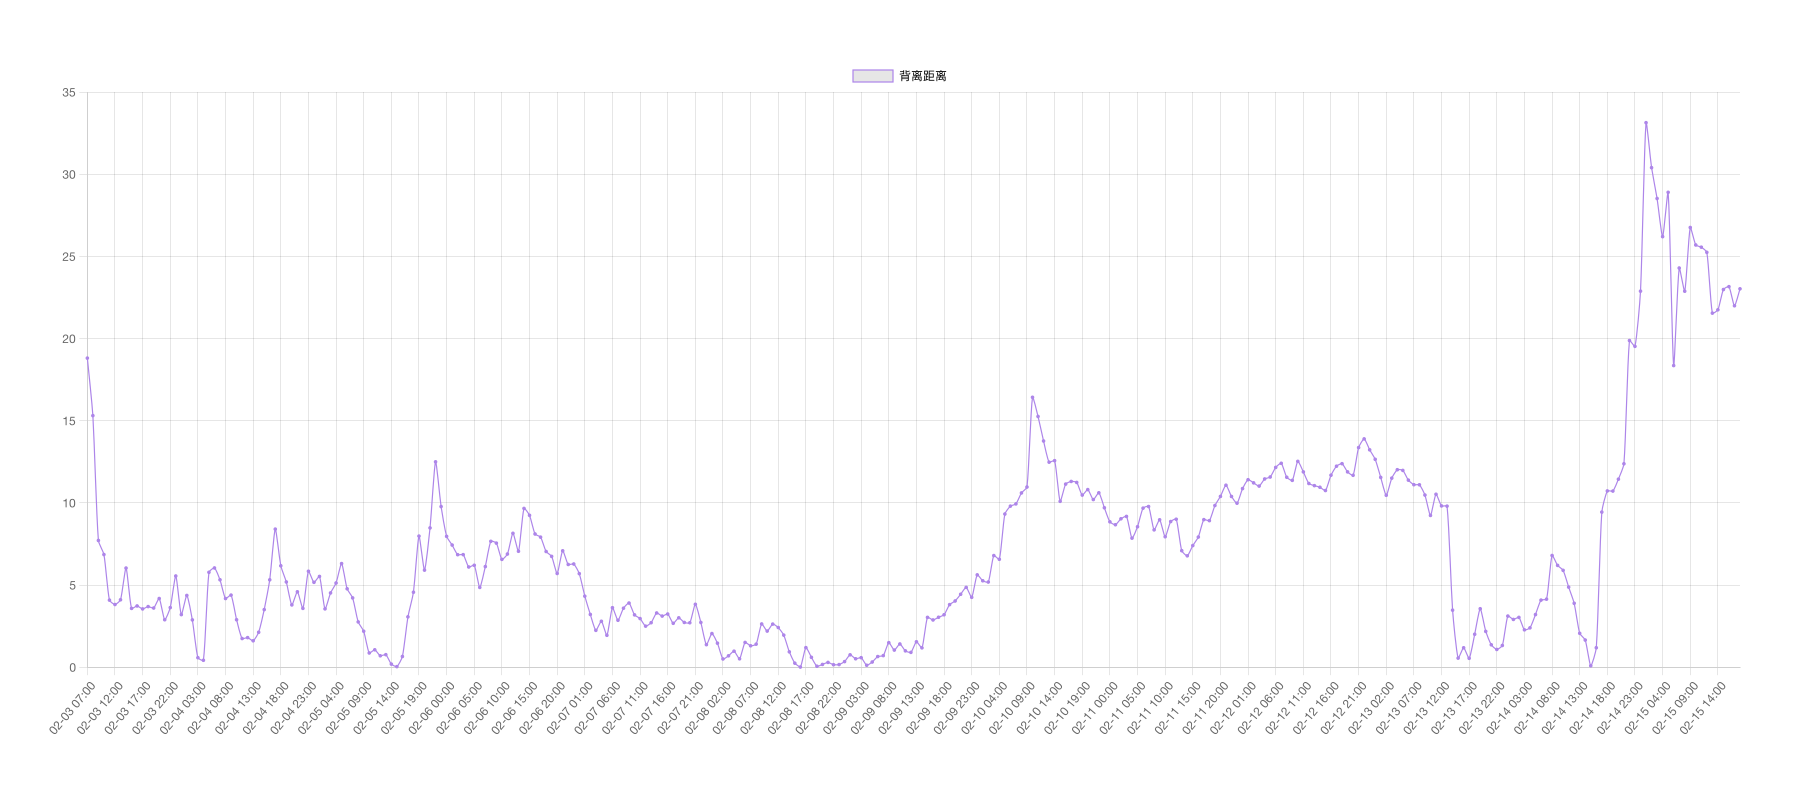
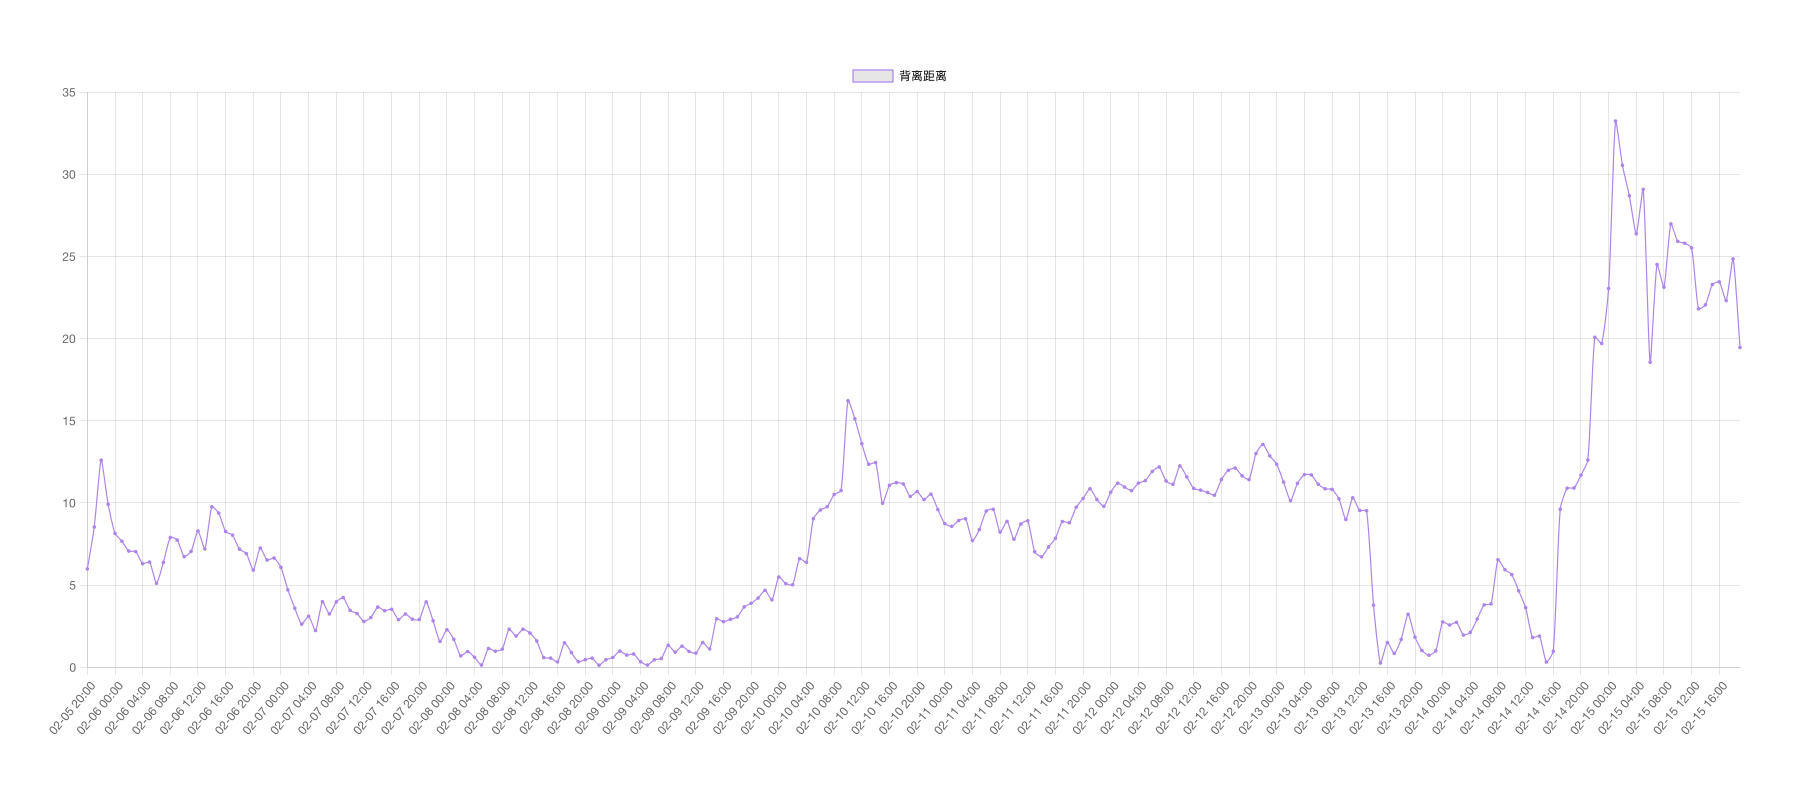
更新绘图方法

diff --git a/src/paint.js b/src/paint.js
@@ -1,5 +1,6 @@
 import { ChartJSNodeCanvas } from 'chartjs-node-canvas'
 import fs from 'fs';
+import { formatTimestamp, getTsOfStartOfToday } from './tools.js';
 
 const width = 1800, height = 800;
 const chartJSNodeCanvas = new ChartJSNodeCanvas({ width, height, backgroundColour:'#fff' });
@@ -49,10 +50,14 @@ export function paint(assetIds, scaled_prices, themes, labels, gate, klines){
         ;((yData1, yData2)=>{
           klines.map((it, id)=>{
             const {prices, ts} = it;
+            const keys = formatTimestamp(getTsOfStartOfToday());
+            const index = labels.indexOf(keys);
+            const start_price = prices[prices.length - index -1] || prices[prices.length - 1];
+            console.log(keys, start_price)
             const price= prices[0],color=themes[id],assetId = assetIds[id];
             ctx.font = '16px Arial';
             ctx.fillStyle = color;
-            ctx.fillText(`[${assetId}]: ${price}`, width*0.8, height*0.2+(id+1)*20);
+            ctx.fillText(`[${assetId}]: ${price}(${(100*(price-start_price)/start_price).toFixed(2)}%)`, width*0.8, height*0.15+(id+1)*20);
           })
 
           const lables = yData2.map((it,id)=>id);
@@ -64,8 +69,8 @@ export function paint(assetIds, scaled_prices, themes, labels, gate, klines){
             const y2 = yScale.getPixelForValue(yData2[i]);
             const diff_rate = Math.abs((yData2[i] - yData1[i])/Math.min(yData2[i],yData1[i]))
             if(i===lables.length-1){
-              ctx.font = '24px Arial';
-              ctx.fillText(`当前: ${(diff_rate*100).toFixed(2)}%`, width*0.8, height*0.2);
+              ctx.font = '22px Arial';
+              ctx.fillText(`最新偏差值: ${(diff_rate*100).toFixed(2)}%`, width*0.8, height*0.15 - 5);
             }
 
             profit.push(diff_rate)

diff --git a/main.js b/main.js
@@ -3,8 +3,7 @@ import {base_url, api_key, api_secret,pass_phrase} from './src/config.security.j
 import express from 'express'
 import { findBestFitLine } from './src/regression.js'
 import { paint } from './src/paint.js'
-import { getPrices, dataset, toTrickTimeMark } from './src/tools.js'
-import { debug } from 'console'
+import { getPrices, dataset, toTrickTimeMark, formatTimestamp, getTsOfStartOfToday } from './src/tools.js'
 // const ws_connection_pool={}
 
 // const ws_private = new WebSocket(base_url+'/ws/v5/private');
@@ -15,8 +14,8 @@ import { debug } from 'console'
 const gate = 0.05;
 const bar_type = '1H';
 const price_type = 'close'
-const once_limit = 300;
-const candle_limit = 300;
+const once_limit = 240;
+const candle_limit = 240;
 const assetIds = ['TRUMP-USDT','SOL-USDT','BTC-USDT', 'ETH-USDT' ]
 // const assetIds = ['TRUMP-USDT','BTC-USDT' ]
 const themes = ['#abb2b9','#ad85e9','#f5b041','#85c1e9'  ]
@@ -27,13 +26,14 @@ const params = {
   once_limit,
   candle_limit,
   // from_when: Date.now(),
-  // from_when: new Date(2025,0,31,0,0,0).getTime(),
+  // from_when: new Date(2025,1,15,14,0,0).getTime(),
   // to_when:new Date(2025,1,14,20,30,0).getTime(),
 }
 
 const klines = await Promise.all(assetIds.map(async (it,id)=>await getPrices(it, params)));
 const refer_kline = klines[0];
 const x_label = toTrickTimeMark(refer_kline.ts.slice().reverse());
+
 const scaled_prices = klines.map((it,id)=>{
   const {prices, ts} = it;
   if(id==0) return dataset(prices);

diff --git a/src/tools.js b/src/tools.js
@@ -87,3 +87,9 @@ export function dataset(data){
   // return data.map((it,id)=>({x:id, y:it}))
   return data.slice().reverse()
 }
+
+export function getTsOfStartOfToday(){
+  const now = new Date();
+  const startOfDay = new Date(now.getFullYear(), now.getMonth(), now.getDate());
+  return startOfDay.getTime();
+}
